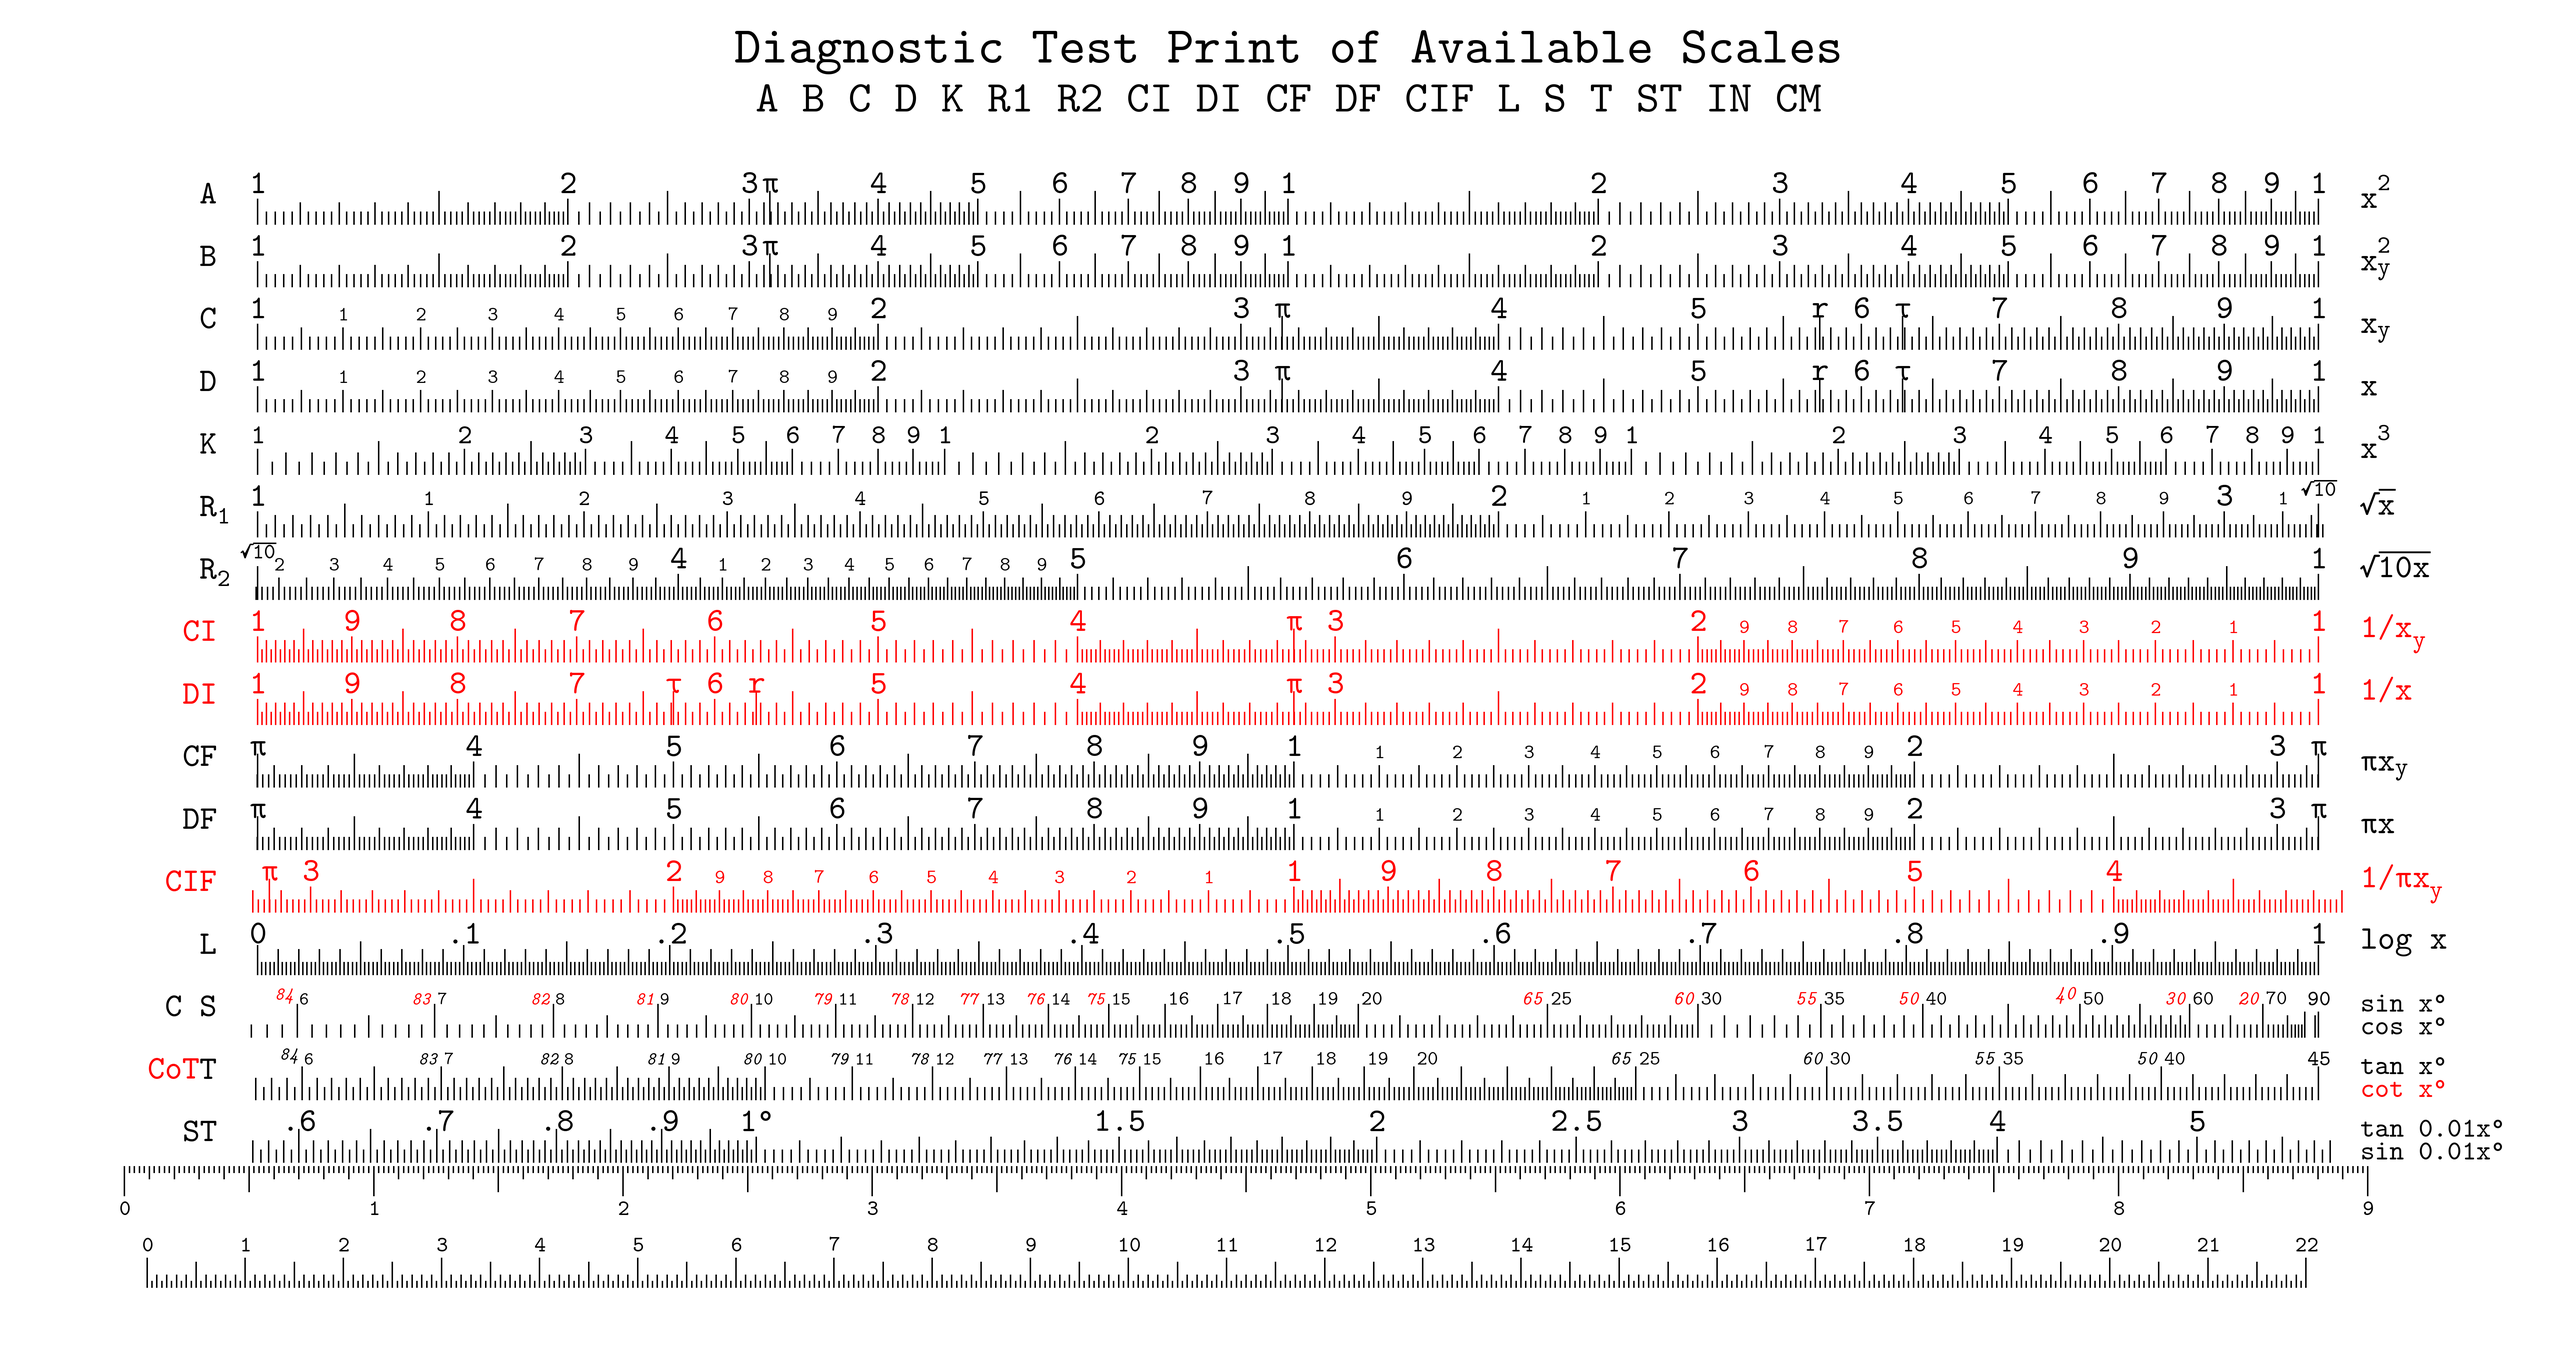
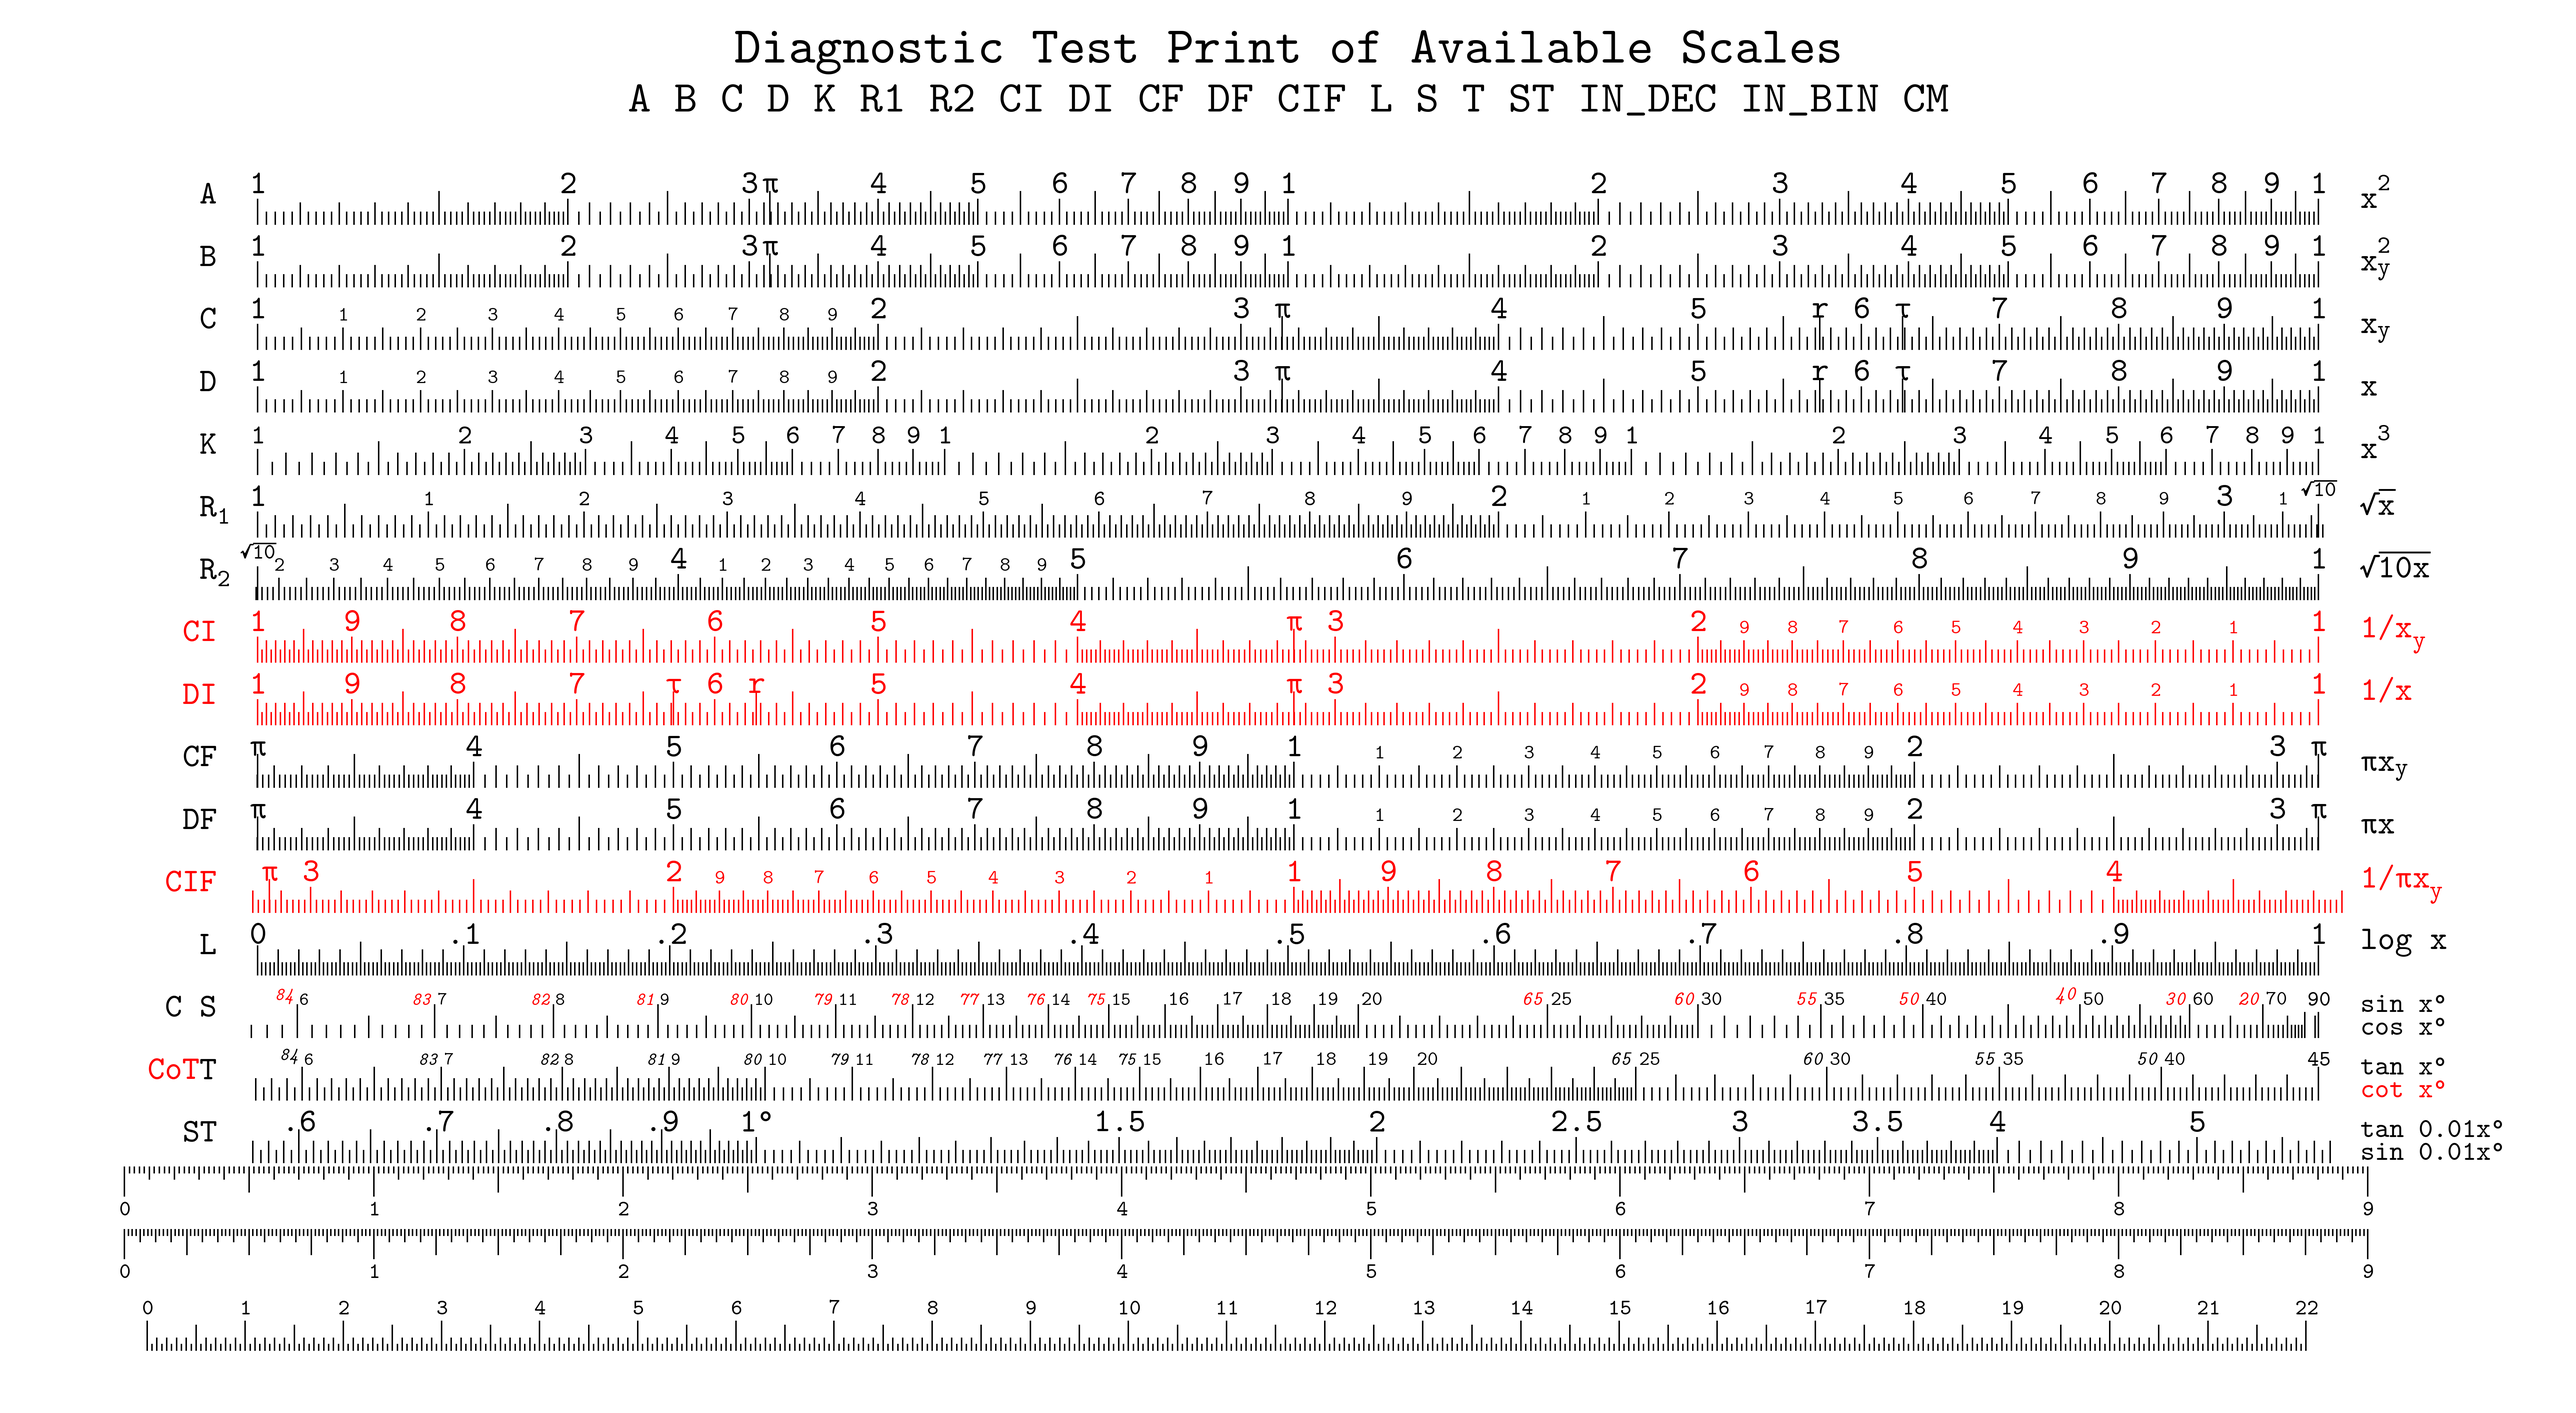
Update the Ruler model to include the binary inch scale to compare with the decimal inch scale.

Changed region(s): [[0.0623, 0.1243, 0.9654, 0.9008], [0.2803, 0.0311, 0.7474, 0.0932]]

diff --git a/SlideRule.py b/SlideRule.py
@@ -1372,7 +1372,7 @@ class Models:
                              Layouts.MannheimOriginal)
 
     Ruler = replace(MannheimOriginal,
-                    layout=Layout('IN [] CM'))
+                    layout=Layout('IN_DEC [IN_BIN] CM'))
     MannheimWithRuler = replace(MannheimOriginal,
                                 layout=Layout('A/B C/D', 'IN [] CM'))
 
